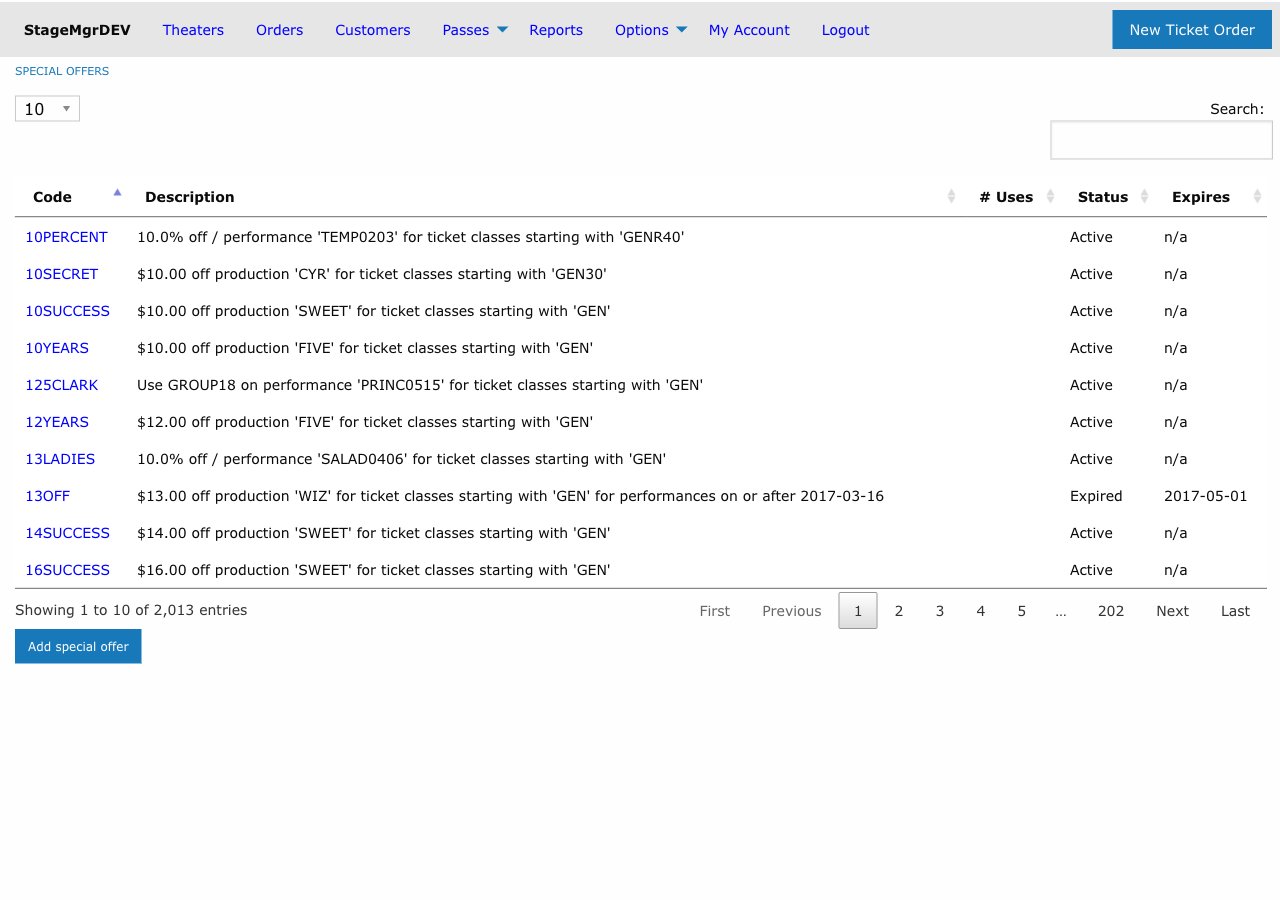
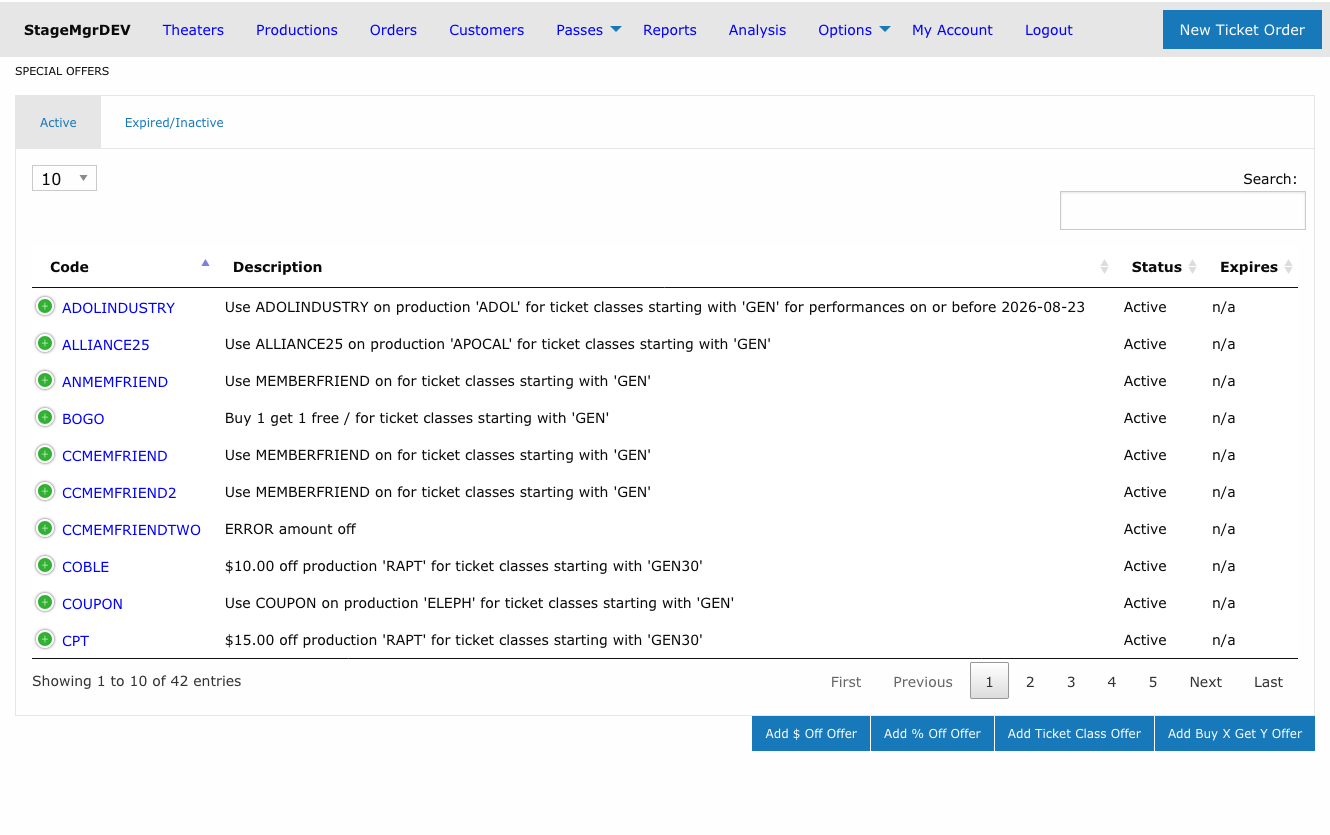
Deployed bd61e2db with MkDocs version: 1.6.1

diff --git a/offers/special-offers/index.html b/offers/special-offers/index.html
@@ -1303,6 +1303,23 @@
     </span>
   </a>
   
+    <nav class="md-nav" aria-label="Overview">
+      <ul class="md-nav__list">
+        
+          <li class="md-nav__item">
+  <a href="#active-and-expiredinactive-tabs" class="md-nav__link">
+    <span class="md-ellipsis">
+      
+        Active and Expired/Inactive Tabs
+      
+    </span>
+  </a>
+  
+</li>
+        
+      </ul>
+    </nav>
+  
 </li>
       
         <li class="md-nav__item">
@@ -3758,7 +3775,7 @@
 <p><strong>Navigation:</strong> Admin &gt; Offers &gt; Special Offers</p>
 <hr />
 <h2 id="overview">Overview<a class="headerlink" href="#overview" title="Permanent link">&para;</a></h2>
-<p><img alt="Special offers list showing codes, descriptions, usage counts, status, and expiration dates" src="../../assets/images/screenshots/offers-special-offers-list.png" /></p>
+<p><img alt="Special offers list showing the Active tab with codes, descriptions, status, and expiration dates" src="../../assets/images/screenshots/offers-special-offers-list.png" /></p>
 <p>Special offers are promo codes that customers enter at checkout to receive a discount or ticket class change. Stagemgr supports four types of special offers, each with distinct behavior:</p>
 <table>
 <thead>
@@ -3791,6 +3808,32 @@
 </tr>
 </tbody>
 </table>
+<h3 id="active-and-expiredinactive-tabs">Active and Expired/Inactive Tabs<a class="headerlink" href="#active-and-expiredinactive-tabs" title="Permanent link">&para;</a></h3>
+<p>The offers list is divided into two tabs:</p>
+<table>
+<thead>
+<tr>
+<th>Tab</th>
+<th>Shows</th>
+</tr>
+</thead>
+<tbody>
+<tr>
+<td><strong>Active</strong></td>
+<td>Offers with <code>Active</code> status -- the codes customers can currently redeem. This tab opens by default.</td>
+</tr>
+<tr>
+<td><strong>Expired/Inactive</strong></td>
+<td>Offers with <code>Inactive</code> or <code>Expired</code> status, kept for reference or later reactivation.</td>
+</tr>
+</tbody>
+</table>
+<p>Each tab has its own search box, column sorting, and paging, so you can filter one list without affecting the other. The searches and sort order you set are remembered separately per tab when you return to the page.</p>
+<p><img alt="Expired/Inactive tab listing offers with Inactive and Expired statuses" src="../../assets/images/screenshots/offers-special-offers-inactive-tab.png" /></p>
+<div class="admonition tip">
+<p class="admonition-title">Where did my offer go?</p>
+<p>Changing an offer's status moves it between tabs. If a code you expect to see is missing from the Active tab, check the Expired/Inactive tab -- it may have been deactivated or passed its Auto Expire date.</p>
+</div>
 <h2 id="creating-a-special-offer">Creating a Special Offer<a class="headerlink" href="#creating-a-special-offer" title="Permanent link">&para;</a></h2>
 <p><img alt="Special offer form with code, type, status, criteria, action, filters, and use restrictions" src="../../assets/images/screenshots/offers-special-offer-form.png" /></p>
 <h3 id="required-fields">Required Fields<a class="headerlink" href="#required-fields" title="Permanent link">&para;</a></h3>
@@ -4014,10 +4057,15 @@
 <hr />
 <h2 id="managing-existing-offers">Managing Existing Offers<a class="headerlink" href="#managing-existing-offers" title="Permanent link">&para;</a></h2>
 <ul>
-<li><strong>Deactivate</strong> an offer by setting its status to <code>Inactive</code>.</li>
+<li><strong>Deactivate</strong> an offer by setting its status to <code>Inactive</code>. It moves to the <strong>Expired/Inactive</strong> tab and can no longer be redeemed.</li>
+<li><strong>Reactivate</strong> an offer from the Expired/Inactive tab by setting its status back to <code>Active</code>.</li>
 <li><strong>Track usage</strong> by reviewing the Number of Uses counter on the offer detail page.</li>
 <li>Offers that pass their Auto Expire datetime are automatically marked <code>Expired</code>.</li>
 </ul>
+<div class="admonition note">
+<p class="admonition-title">Automatic weekly cleanup</p>
+<p>Once a week, Stagemgr automatically marks an <code>Active</code> offer <code>Inactive</code> when everything it targets is well in the past -- its performance, production, expiration date, or performance date range ended more than a month ago. These offers appear on the Expired/Inactive tab afterward. Reactivate an offer manually if it was cleaned up but you still need it.</p>
+</div>
 
 
 